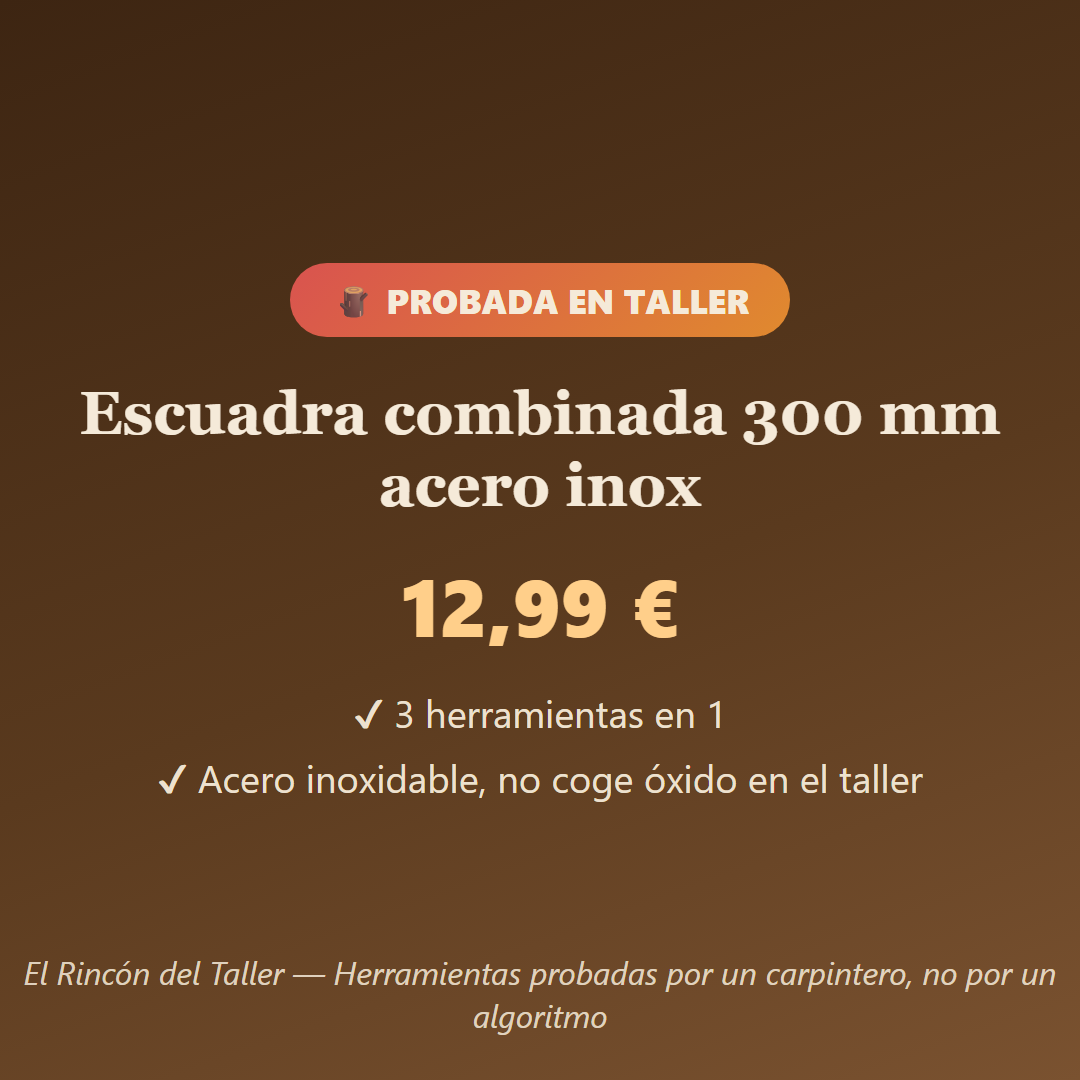
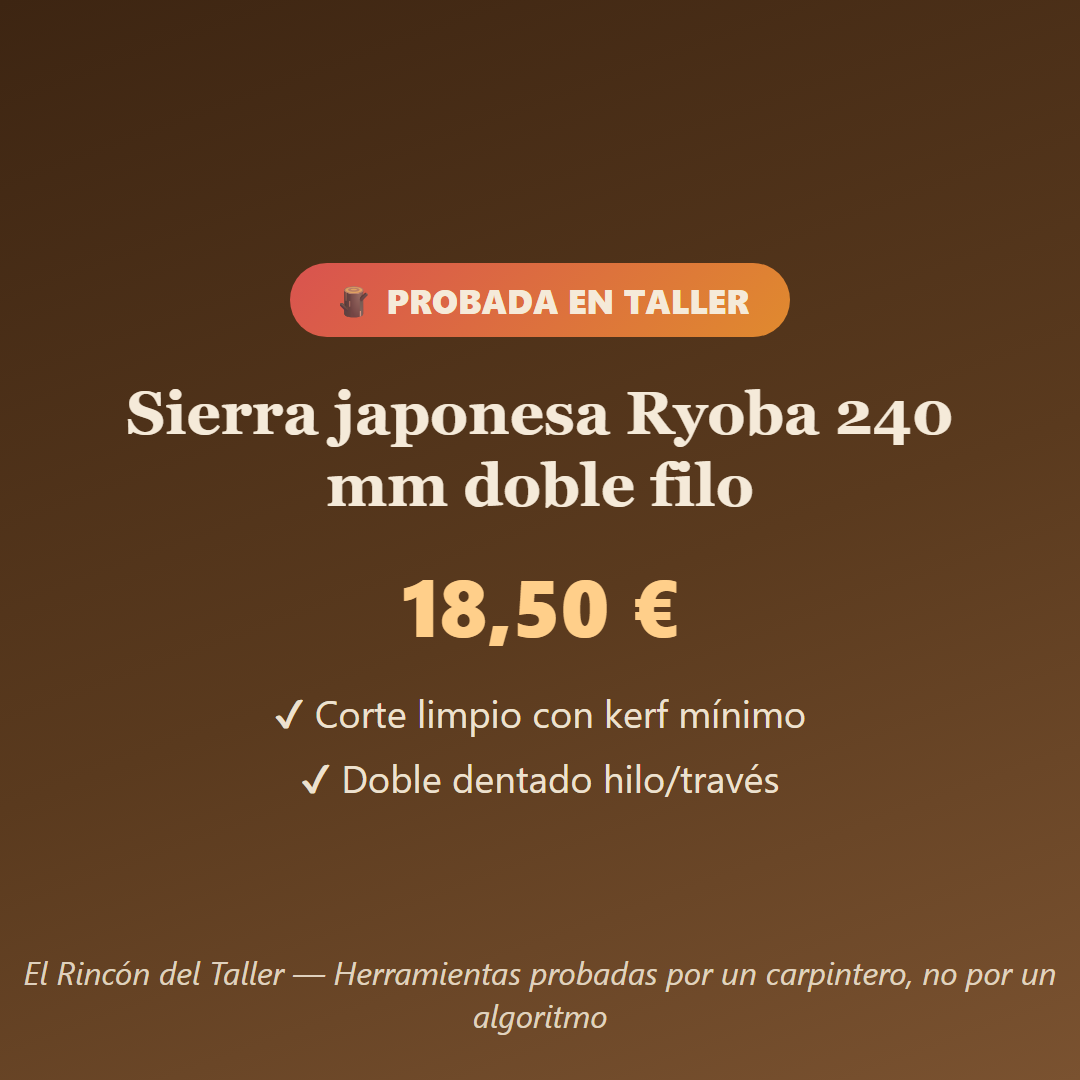
Regla 80/20 en redes (consejos de taller) + 2 guías SEO nuevas

diff --git a/scripts/make-posts.js b/scripts/make-posts.js
@@ -22,29 +22,54 @@ const STATE_FILE = path.join(ROOT, 'social', 'state.json');
 const state = fs.existsSync(STATE_FILE) ? JSON.parse(fs.readFileSync(STATE_FILE, 'utf8')) : { publicadosRecientes: [] };
 
 const publicables = data.productos.filter(p => p.affiliateUrl || process.env.BUILD_PREVIEW === '1');
-if (!publicables.length) { console.log('ℹ️ No hay productos con enlace de afiliado: nada que publicar.'); process.exit(0); }
-
-// Producto del día: tendencia primero, y de esos el que lleve más tiempo sin salir
-const recientes = new Set(state.publicadosRecientes.slice(-Math.max(publicables.length - 1, 0)));
-const pool = publicables.filter(p => !recientes.has(p.id));
-const candidato = pool.find(p => p.tendencia) || pool[0] || publicables[0];
-const p = candidato;
-const urlFicha = `${cfg.tienda.url}/producto/${p.id}.html`;
 const esc = s => String(s || '').replace(/&/g, '&amp;').replace(/</g, '&lt;').replace(/>/g, '&gt;');
-
 const HASHTAGS = '#carpintería #bricolaje #herramientas #taller #DIY #woodworking';
-const gancho = p.tendencia
-  ? `🔥 En tendencia esta semana: ${p.titulo}`
-  : `🪵 Herramienta probada en taller: ${p.titulo}`;
-const proTop = p.pros[0] || '';
 
-const textos = {
-  x: `${gancho}\n\n${proTop ? '✔ ' + proTop + '\n' : ''}💶 ${p.precio}\n\n👉 Veredicto completo y enlace: ${urlFicha}\n\n${HASHTAGS}`.slice(0, 279),
-  facebook: `${gancho}\n\n${p.veredicto}\n\n${p.pros.map(x => '✔ ' + x).join('\n')}\n\n💶 Precio: ${p.precio}\n👉 Ficha completa con pros y contras: ${urlFicha}\n\n${HASHTAGS}`,
-  instagram: `${gancho}\n\n${p.veredicto}\n\n💶 ${p.precio}\n🔗 Enlace en la bio y en ${urlFicha}\n\n${HASHTAGS} #aliexpressfinds #herramientasdecalidad`,
-  tiktok: `[GUION VÍDEO 20-30s]\n1. Plano de la herramienta: "${gancho}"\n2. En uso: "${proTop}"\n3. El pero, a la cara: "${p.contras[0] || 'sin peros graves'}"\n4. Cierre: "Precio: ${p.precio}. Ficha completa en el enlace del perfil."\n\nCAPTION: ${gancho} 🔗 en bio ${HASHTAGS} #aliexpress`,
-  youtube: `[YouTube Short — mismo guion que TikTok]\n\nTÍTULO: ${p.titulo} — ¿merece la pena? (opinión de carpintero)\nDESCRIPCIÓN:\n${p.veredicto}\n\nFicha completa con pros/contras y enlace: ${urlFicha}\n\n${HASHTAGS}`,
-};
+// Regla 80/20: martes (2) y viernes (5) = post de producto (venta);
+// el resto de días = consejo de taller (valor, capta seguidores).
+const hoy = new Date();
+const DIAS_PRODUCTO = [2, 5];
+let modo = DIAS_PRODUCTO.includes(hoy.getUTCDay()) && publicables.length ? 'producto' : 'consejo';
+if (process.env.POST_MODO) modo = process.env.POST_MODO; // forzar en pruebas: POST_MODO=consejo|producto
+
+let p = null, tip = null, urlFicha, textos, tituloCard;
+
+if (modo === 'producto') {
+  // Producto del día: tendencia primero, y de esos el que lleve más tiempo sin salir
+  const recientes = new Set(state.publicadosRecientes.slice(-Math.max(publicables.length - 1, 0)));
+  const pool = publicables.filter(x => !recientes.has(x.id));
+  p = pool.find(x => x.tendencia) || pool[0] || publicables[0];
+  urlFicha = `${cfg.tienda.url}/producto/${p.id}.html`;
+  const gancho = p.tendencia
+    ? `🔥 En tendencia esta semana: ${p.titulo}`
+    : `🪵 Herramienta probada en taller: ${p.titulo}`;
+  const proTop = p.pros[0] || '';
+  tituloCard = p.titulo;
+  textos = {
+    x: `${gancho}\n\n${proTop ? '✔ ' + proTop + '\n' : ''}💶 ${p.precio}\n\n👉 Veredicto completo y enlace: ${urlFicha}\n\n${HASHTAGS}`.slice(0, 279),
+    facebook: `${gancho}\n\n${p.veredicto}\n\n${p.pros.map(x => '✔ ' + x).join('\n')}\n\n💶 Precio: ${p.precio}\n👉 Ficha completa con pros y contras: ${urlFicha}\n\n${HASHTAGS}`,
+    instagram: `${gancho}\n\n${p.veredicto}\n\n💶 ${p.precio}\n🔗 Enlace en la bio y en ${urlFicha}\n\n${HASHTAGS} #aliexpressfinds #herramientasdecalidad`,
+    tiktok: `[GUION VÍDEO 20-30s]\n1. Plano de la herramienta: "${gancho}"\n2. En uso: "${proTop}"\n3. El pero, a la cara: "${p.contras[0] || 'sin peros graves'}"\n4. Cierre: "Precio: ${p.precio}. Ficha completa en el enlace del perfil."\n\nCAPTION: ${gancho} 🔗 en bio ${HASHTAGS} #aliexpress`,
+    youtube: `[YouTube Short — mismo guion que TikTok]\n\nTÍTULO: ${p.titulo} — ¿merece la pena? (opinión de carpintero)\nDESCRIPCIÓN:\n${p.veredicto}\n\nFicha completa con pros/contras y enlace: ${urlFicha}\n\n${HASHTAGS}`,
+  };
+} else {
+  // Consejo de taller rotando (los menos usados primero)
+  const { tips } = JSON.parse(fs.readFileSync(path.join(ROOT, 'data', 'tips.json'), 'utf8'));
+  if (!tips.length) { console.log('ℹ️ Sin consejos en data/tips.json.'); process.exit(0); }
+  const usados = state.tipsRecientes || [];
+  tip = tips.find(t => !usados.slice(-(tips.length - 1)).includes(t.id)) || tips[0];
+  urlFicha = tip.guia ? `${cfg.tienda.url}/guias/${tip.guia}.html` : cfg.tienda.url;
+  const gancho = '🪵 Consejo de taller (16 años de oficio)';
+  tituloCard = tip.texto;
+  const cierre = tip.guia ? `📖 Guía completa: ${urlFicha}` : `📖 Más consejos y herramientas probadas: ${urlFicha}`;
+  textos = {
+    x: `${gancho}\n\n${tip.texto}\n\n${HASHTAGS}`.slice(0, 279),
+    facebook: `${gancho}\n\n${tip.texto}\n\n${cierre}\n\n${HASHTAGS}`,
+    instagram: `${gancho}\n\n${tip.texto}\n\n🔗 Enlace en la bio\n\n${HASHTAGS} #aprendecarpinteria #trucosdetaller`,
+    tiktok: `[GUION VÍDEO 15-20s]\n1. A cámara o manos trabajando: "${tip.texto.split('.')[0]}."\n2. Demostración o explicación: "${tip.texto}"\n3. Cierre: "Sígueme para un consejo de taller cada día."\n\nCAPTION: ${gancho} ${HASHTAGS} #trucosdetaller`,
+    youtube: `[YouTube Short — mismo guion que TikTok]\n\nTÍTULO: ${tip.texto.split('.')[0]} (consejo de carpintero)\nDESCRIPCIÓN:\n${tip.texto}\n\n${cierre}\n\n${HASHTAGS}`,
+  };
+}
 
 const cardCSS = (w, h) => `
 *{margin:0;padding:0;box-sizing:border-box}
@@ -58,12 +83,18 @@ h1{font-family:Georgia,serif;font-size:${w > h ? 56 : 60}px;line-height:1.2;marg
 .pro{font-size:38px;opacity:.95;margin-bottom:14px}
 .marca{position:absolute;bottom:44px;left:0;right:0;font-size:32px;opacity:.85;font-style:italic}`;
 
-const cardHTML = (w, h) => `<!DOCTYPE html><html><head><meta charset="utf-8"><style>${cardCSS(w, h)}</style></head><body>
+const cardHTML = (w, h) => modo === 'producto' ? `<!DOCTYPE html><html><head><meta charset="utf-8"><style>${cardCSS(w, h)}</style></head><body>
 ${p.tendencia ? '<div class="badge">🔥 EN TENDENCIA</div>' : '<div class="badge">🪵 PROBADA EN TALLER</div>'}
 ${p.imagen ? `<img src="${esc(p.imagen)}">` : ''}
 <h1>${esc(p.titulo)}</h1>
 <div class="precio">${esc(p.precio)}</div>
 ${p.pros.slice(0, 2).map(x => `<div class="pro">✔ ${esc(x)}</div>`).join('')}
+<div class="marca">${esc(cfg.tienda.nombre)} — ${esc(cfg.tienda.eslogan)}</div>
+</body></html>` : `<!DOCTYPE html><html><head><meta charset="utf-8"><style>${cardCSS(w, h)}
+h1{font-size:${w > h ? 48 : 52}px;font-style:italic}</style></head><body>
+<div class="badge">🪵 CONSEJO DE TALLER</div>
+<h1>«${esc(tip.texto)}»</h1>
+<div class="pro">16 años de oficio detrás de cada consejo</div>
 <div class="marca">${esc(cfg.tienda.nombre)} — ${esc(cfg.tienda.eslogan)}</div>
 </body></html>`;
 
@@ -98,11 +129,15 @@ if (nav) {
 }
 
 // estado de rotación + manifiesto para publish.js
-state.publicadosRecientes = [...state.publicadosRecientes, p.id].slice(-50);
-state.ultimo = { fecha, productoId: p.id, urlFicha, dir: `social/out/${fecha}` };
+if (modo === 'producto') {
+  state.publicadosRecientes = [...state.publicadosRecientes, p.id].slice(-50);
+} else {
+  state.tipsRecientes = [...(state.tipsRecientes || []), tip.id].slice(-50);
+}
+state.ultimo = { fecha, modo, productoId: p?.id || null, tipId: tip?.id || null, urlFicha, dir: `social/out/${fecha}` };
 fs.mkdirSync(path.dirname(STATE_FILE), { recursive: true });
 fs.writeFileSync(STATE_FILE, JSON.stringify(state, null, 2));
-fs.writeFileSync(path.join(OUT, 'manifest.json'), JSON.stringify({ fecha, productoId: p.id, titulo: p.titulo, urlFicha, textos: Object.keys(textos), png }, null, 2));
+fs.writeFileSync(path.join(OUT, 'manifest.json'), JSON.stringify({ fecha, modo, id: p?.id || tip?.id, titulo: tituloCard, urlFicha, textos: Object.keys(textos), png }, null, 2));
 
-console.log(`✅ Pack del día generado en social/out/${fecha}/ — producto: "${p.titulo}"${p.tendencia ? ' (🔥 tendencia)' : ''}`);
+console.log(`✅ Pack del día (${modo}) generado en social/out/${fecha}/ — "${tituloCard.slice(0, 70)}"${p?.tendencia ? ' (🔥 tendencia)' : ''}`);
 console.log(`   Texto para: X, Facebook, Instagram, TikTok, YouTube. Imágenes: ${png ? 'PNG 1080² y 1080×1920 ✔' : 'solo HTML (sin navegador headless)'}`);

diff --git a/content/articles/como-afilar-formones-piedra.html b/content/articles/como-afilar-formones-piedra.html
@@ -1,0 +1,27 @@
+<h2>Cómo afilar formones a piedra: la guía sin mitos de un carpintero</h2>
+
+<p>Voy a ahorrarte años de vueltas: <strong>el 80% del rendimiento de un formón está en el filo, no en la marca</strong>. Un formón de 4 € afilado de verdad corta mejor que uno de 40 € recién sacado de la caja — porque casi ningún formón viene afilado de fábrica, solo rectificado. Esta es la rutina que uso desde hace años, sin aparatos raros.</p>
+
+<h3>Lo que necesitas (y lo que no)</h3>
+<ul>
+<li><strong>Piedra de diamante de dos granos (400/1000)</strong>: mi recomendación para empezar. No se deforma, no necesita remojo y dura años.</li>
+<li><strong>Una guía de afilado de rodillo</strong> (opcional, ~8 €): mantiene el ángulo constante mientras educas la mano.</li>
+<li><strong>Trozo de cuero o madera con pasta de pulir</strong> para asentar el filo.</li>
+<li>NO necesitas: tormek, afiladoras eléctricas ni sistemas de 200 €. Eso llega (si llega) cuando afilas a diario.</li>
+</ul>
+
+<h3>Los tres pasos</h3>
+<h3>1. La cara plana es sagrada</h3>
+<p>Antes de tocar el bisel, aplana los 2-3 primeros centímetros de la cara trasera del formón sobre el grano grueso, hasta que quede espejo uniforme. Se hace UNA vez en la vida del formón, y es lo que casi todo el mundo se salta. Un filo es la intersección de dos superficies: si una es una patata, el filo será una patata.</p>
+
+<h3>2. El bisel a 25-30 grados</h3>
+<p>Con guía o a pulso, pasadas sobre el grano grueso manteniendo el ángulo (25° para madera blanda y trabajo fino, 30° para madera dura y golpe de mazo). Sabes que has terminado cuando notas una <strong>rebaba</strong> continua en la cara trasera — ese hilillo metálico es la señal de que los dos planos se han encontrado. Repite con el grano fino.</p>
+
+<h3>3. Asentar (el paso que separa "corta" de "afeita")</h3>
+<p>Retira la rebaba alternando pasadas suaves bisel/cara en el grano fino, y remata en el cuero con pasta: diez pasadas por cada lado, tirando (nunca empujando). El filo debe cortar papel de periódico colgando, sin rasgarlo.</p>
+
+<h3>La prueba del taller</h3>
+<p>Un formón bien afilado hace virutas finas en madera de testa (la más difícil) empujando solo con la mano. Si necesitas mazo para todo, no está afilado. Si "se resbala" sobre la madera sin morder, tampoco.</p>
+
+<h3>Mantenimiento real</h3>
+<p>No esperes a que deje de cortar: 30 segundos en el grano fino + cuero cada pocas horas de uso mantienen el filo eternamente. Afilar mucho un formón muerto cuesta 20 minutos; mantener uno vivo, medio minuto. Como casi todo en el taller — y fuera de él.</p>

diff --git a/content/articles/errores-principiante-carpinteria.html b/content/articles/errores-principiante-carpinteria.html
@@ -1,0 +1,27 @@
+<h2>Los 7 errores del principiante en carpintería (los cometí todos)</h2>
+
+<p>Dieciséis años viviendo del oficio dan para ver — y cometer — todos los errores posibles. Estos siete son los que más tiempo, dinero y madera cuestan al que empieza. Si te ahorras la mitad, esta guía ya te ha salido rentable.</p>
+
+<h3>1. Comprar herramientas para proyectos que no existen</h3>
+<p>El novato compra el catálogo entero "por si acaso" y luego no sabe usar nada. La regla: <strong>no compres la herramienta hasta que un proyecto te la pida dos veces</strong>. Empieza con el kit mínimo (te lo detallo en la <a href="kit-basico-taller-100-euros.html">guía del taller por 100 €</a>) y deja que el trabajo decida el resto.</p>
+
+<h3>2. Trabajar con herramienta sin afilar</h3>
+<p>El 90% de los "no me sale" del principiante son un filo muerto: la herramienta resbala, arranca fibra, exige fuerza… y la fuerza es la madre de los accidentes. Media hora aprendiendo a <a href="como-afilar-formones-piedra.html">afilar a piedra</a> mejora tu carpintería más que cualquier compra.</p>
+
+<h3>3. Medir cuando puedes presentar</h3>
+<p>Cada número que apuntas es una oportunidad de equivocarte. Siempre que puedas, <strong>presenta la pieza en su sitio y marca directamente</strong> con cuchillo. Los mejores ensambles que he hecho no tienen ni un número encima.</p>
+
+<h3>4. Saltarse el retal de prueba</h3>
+<p>Ajuste nuevo, cuchilla nueva, tinte nuevo → primero al retal, siempre. Estrenar en la pieza buena es jugarte horas de trabajo a una carta. Guarda recortes de cada madera: son tu laboratorio gratuito.</p>
+
+<h3>5. Encolar con prisa y sin ensayo</h3>
+<p>Haz SIEMPRE el montaje en seco antes de encolar: sargentos preparados, orden de montaje claro, tacos protectores a mano. Cuando la cola está abierta no es momento de descubrir que te falta un sargento. Y recuerda: más cola no es más fuerza, es más limpieza.</p>
+
+<h3>6. Luchar contra el grano</h3>
+<p>La madera tiene dirección, y ganas trabajando con ella, no contra ella. Si el cepillo arranca en vez de rizar, gira la pieza. Si el formón se hunde más de lo que corta, ve del canto hacia el centro. Leer el grano es la mitad del oficio.</p>
+
+<h3>7. Medirse con los resultados de otros</h3>
+<p>Tu primera caja saldrá torcida. La mía salió torcida. La de cualquiera salió torcida. En este oficio la precisión no se compra: se acumula con horas de banco. Compárate solo con tu pieza anterior — es la única comparación que construye.</p>
+
+<h3>El resumen de banco</h3>
+<p>Pocas herramientas y afiladas, marcar con cuchillo, probar en retal, montar en seco, leer el grano y paciencia. Con eso y el <a href="kit-basico-taller-100-euros.html">kit básico</a> se hace más carpintería de la que parece.</p>

diff --git a/social/out/2026-07-07/card-cuadrada.html b/social/out/2026-07-07/card-cuadrada.html
@@ -11,8 +11,8 @@ h1{font-family:Georgia,serif;font-size:60px;line-height:1.2;margin-bottom:30px}
 .marca{position:absolute;bottom:44px;left:0;right:0;font-size:32px;opacity:.85;font-style:italic}</style></head><body>
 <div class="badge">🪵 PROBADA EN TALLER</div>
 
-<h1>Escuadra combinada 300 mm acero inox</h1>
-<div class="precio">12,99 €</div>
-<div class="pro">✔ 3 herramientas en 1</div><div class="pro">✔ Acero inoxidable, no coge óxido en el taller</div>
+<h1>Sierra japonesa Ryoba 240 mm doble filo</h1>
+<div class="precio">18,50 €</div>
+<div class="pro">✔ Corte limpio con kerf mínimo</div><div class="pro">✔ Doble dentado hilo/través</div>
 <div class="marca">El Rincón del Taller — Herramientas probadas por un carpintero, no por un algoritmo</div>
 </body></html>

diff --git a/social/out/2026-07-07/card-vertical.html b/social/out/2026-07-07/card-vertical.html
@@ -11,8 +11,8 @@ h1{font-family:Georgia,serif;font-size:60px;line-height:1.2;margin-bottom:30px}
 .marca{position:absolute;bottom:44px;left:0;right:0;font-size:32px;opacity:.85;font-style:italic}</style></head><body>
 <div class="badge">🪵 PROBADA EN TALLER</div>
 
-<h1>Escuadra combinada 300 mm acero inox</h1>
-<div class="precio">12,99 €</div>
-<div class="pro">✔ 3 herramientas en 1</div><div class="pro">✔ Acero inoxidable, no coge óxido en el taller</div>
+<h1>Sierra japonesa Ryoba 240 mm doble filo</h1>
+<div class="precio">18,50 €</div>
+<div class="pro">✔ Corte limpio con kerf mínimo</div><div class="pro">✔ Doble dentado hilo/través</div>
 <div class="marca">El Rincón del Taller — Herramientas probadas por un carpintero, no por un algoritmo</div>
 </body></html>